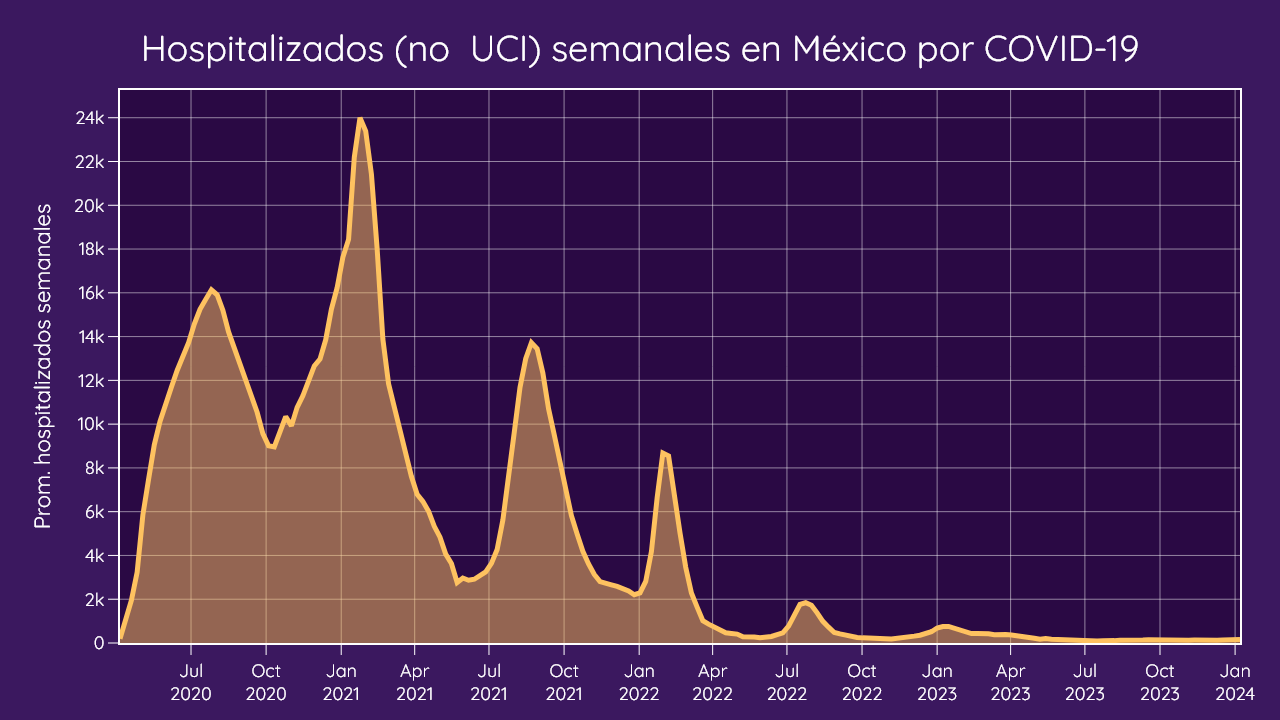
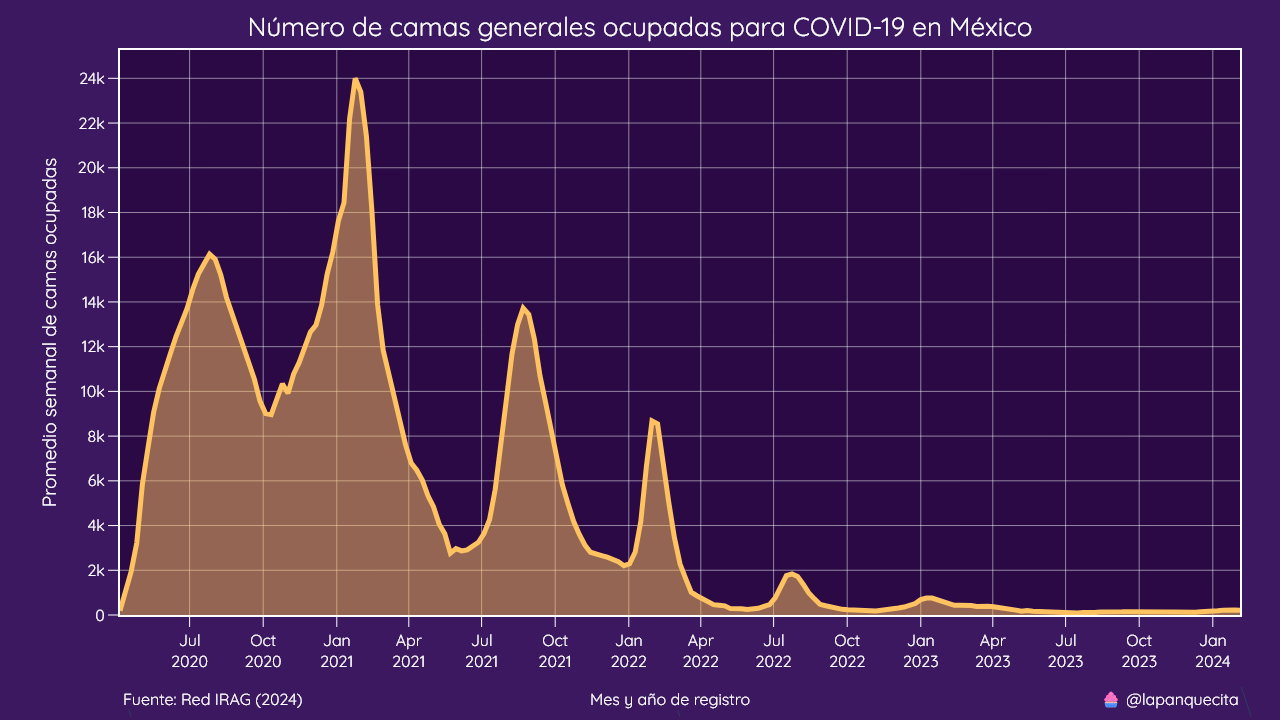
Add files via upload

diff --git a/plotter.py b/plotter.py
@@ -47,7 +47,7 @@ def area_chart():
     )
 
     fig.update_yaxes(
-        title="Prom. hospitalizados semanales",
+        title="Promedio semanal de camas ocupadas",
         ticks="outside",
         ticklen=10,
         title_standoff=10,
@@ -62,23 +62,50 @@ def area_chart():
 
     fig.update_layout(
         showlegend=False,
-        legend_borderwidth=1.5,
-        xaxis_rangeslider_visible=False,
         width=1280,
         height=720,
         font_family="Quicksand",
-        font_color="white",
-        font_size=18,
-        title_text="Hospitalizados (no  UCI) semanales en México por COVID-19",
+        font_color="#FFFFFF",
+        font_size=16,
+        title_text="Número de camas generales ocupadas para COVID-19 en México",
         title_x=0.5,
-        title_y=0.95,
-        margin_t=90,
-        margin_l=120,
+        title_y=0.975,
+        margin_t=50,
         margin_r=40,
-        margin_b=0,
-        title_font_size=36,
+        margin_b=105,
+        margin_l=120,
+        title_font_size=26,
         plot_bgcolor="#2A0944",
         paper_bgcolor="#3B185F",
+        annotations=[
+            dict(
+                x=0.01,
+                y=-0.18,
+                xref="paper",
+                yref="paper",
+                xanchor="left",
+                yanchor="top",
+                text="Fuente: Red IRAG (2024)",
+            ),
+            dict(
+                x=0.5,
+                y=-0.18,
+                xref="paper",
+                yref="paper",
+                xanchor="center",
+                yanchor="top",
+                text="Mes y año de registro",
+            ),
+            dict(
+                x=1.01,
+                y=-0.18,
+                xref="paper",
+                yref="paper",
+                xanchor="right",
+                yanchor="top",
+                text="🧁 @lapanquecita",
+            ),
+        ],
     )
 
     fig.write_image("./1.png")
@@ -308,5 +335,5 @@ def crear_calendario(year):
 
 
 if __name__ == "__main__":
-    # area_chart()
+    area_chart()
     crear_calendarios()
